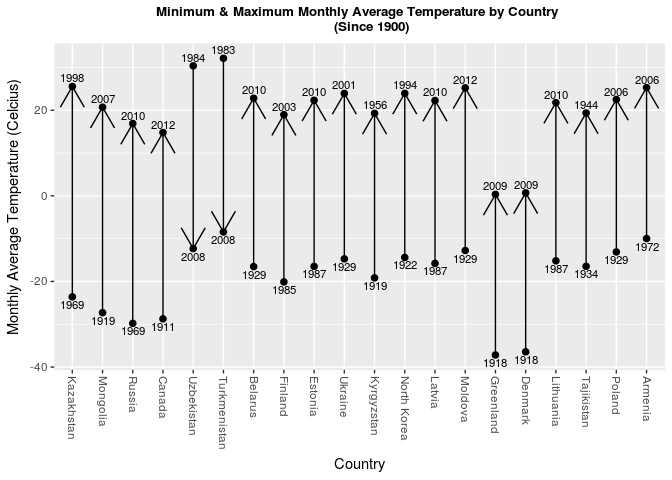
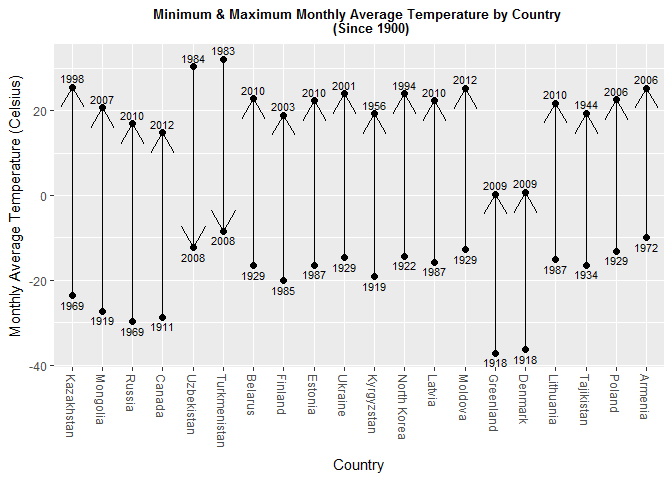
committing rmd, md and pngs with celsius

diff --git a/paper/CaseStudy2.md b/paper/CaseStudy2.md
@@ -5,7 +5,7 @@ April 13, 2017
 
 ### Introduction
 
-In this study....
+In this study, using Orange tree data from R, we will investigate orange tree growth and the relationship between tree age and circumference by tree size. We will examine land temperature differences from data that contains the monthly average temperatures since 1900 by country and by city. For the top 20 countries and cities, ranked by temperature difference, we will then examine the relationship between their minimum and maximum monthly average temperatures. Finally, we will examine land temperatures by month in the United States and look for trends in the data, and will look for temperature differences by year.
 
 #### Code used to download and tidy data
 
@@ -17,6 +17,8 @@ source(paste(dir,"/source/download_2.R",sep=""))
 source(paste(dir,"/source/cleanup_2.R",sep=""))
 source(paste(dir,"/source/CityTemp_cleanup.R",sep=""))
 ```
+
+### Question 2 Insert Here
 
 ### 3i. Find the difference between the maximum and the minimum monthly average temperatures for each country and report/visualize top 20 countries with the maximum differences for the period since 1900.
 
@@ -125,7 +127,7 @@ T20MinMaxTempLong <- transform(T20MinMaxTempLong, Country=reorder(Country, -Temp
 ggplot(T20MinMaxTempLong, aes(x=Country, y=Monthly.AvgTemp, 
     group=Country, factor(TempDiff))) + 
   geom_point(size=2)+geom_path(arrow=arrow()) +
-  labs(y = 'Monthly Average Temperature (Celcius)',
+  labs(y = 'Monthly Average Temperature (Celsius)',
       title = 'Minimum & Maximum Monthly Average Temperature by Country 
       (Since 1900)') +
   theme(axis.text.x = element_text(angle = -90, hjust = 0, vjust = 0.5),
@@ -143,7 +145,7 @@ ggplot(T20MinMaxTempLong, aes(x=Country, y=Monthly.AvgTemp,
 ``` r
 ggplot(T20MinMaxTempLong, aes(x=Date, y=Monthly.AvgTemp, color=Min.Max)) + 
   geom_point(size=2) +
-  labs(x = 'Year', y = 'Monthly Avgerage Temperature (Celcius)', 
+  labs(x = 'Year', y = 'Monthly Avgerage Temperature (Celsius)', 
       title = 'Minimum & Maximum Monthly Average Temperature vs. Year (Since 1900)',
       color = "") +
   theme(plot.title = element_text(size=12, face='bold', hjust=0.5))
@@ -151,7 +153,7 @@ ggplot(T20MinMaxTempLong, aes(x=Date, y=Monthly.AvgTemp, color=Min.Max)) +
 
 ![](CaseStudy2_files/figure-markdown_github/T20scatterplot-1.png)
 
-### Q3ii.a. Select a subset of data called “UStemp” where US land temperatures from 01/01/1990 in Temp data. Use UStemp dataset to answer the followings. Create a new column to display the monthly average land temperatures in Fahrenheit (°F).
+### Q3ii.a. Select a subset of data called "UStemp" where US land temperatures from 01/01/1990 in Temp data. Use UStemp dataset to answer the followings. Create a new column to display the monthly average land temperatures in Fahrenheit (°F).
 
 #### Using the data from 1900 to 2013 for average land temperatures only in the United States, we can convert the temperatures from degrees C to degrees F using the formula Temp (deg F) = Temp (deg C)\* 1.8 +32.
 
@@ -165,20 +167,20 @@ UStemp$Monthly.AverageTemp.degF<-(UStemp$Monthly.AverageTemp.degC*1.8)+32
 head(UStemp)
 ```
 
-    ##        Monthly.AverageTemp.degC Monthly.AverageTemp.Uncertainty
-    ## 110179                   -1.702                           0.206
-    ## 113579                    8.534                           0.103
-    ## 116877                    9.848                           0.201
-    ## 117023                   -2.286                           0.154
-    ## 117867                   21.690                           0.110
-    ## 118212                    2.504                           0.186
-    ##              Country       Date Monthly.AverageTemp.degF
-    ## 110179 United States 1934-12-01                  28.9364
-    ## 113579 United States 2009-10-01                  47.3612
-    ## 116877 United States 1933-10-01                  49.7264
-    ## 117023 United States 1972-02-01                  27.8852
-    ## 117867 United States 2008-07-01                  71.0420
-    ## 118212 United States 1986-11-01                  36.5072
+    ##      Monthly.AverageTemp.degC Monthly.AverageTemp.Uncertainty
+    ## 186                    -3.583                           0.213
+    ## 1064                   13.906                           0.159
+    ## 1297                   20.935                           0.424
+    ## 1428                   -0.453                           0.201
+    ## 1573                    2.073                           0.124
+    ## 1802                   -1.586                           0.122
+    ##            Country       Date Monthly.AverageTemp.degF
+    ## 186  United States 1974-01-01                  25.5506
+    ## 1064 United States 1997-05-01                  57.0308
+    ## 1297 United States 1967-07-01                  69.6830
+    ## 1428 United States 1982-12-01                  31.1846
+    ## 1573 United States 1980-03-01                  35.7314
+    ## 1802 United States 2008-02-01                  29.1452
 
 ### Q3ii.b. Calculate average land temperature by year and plot it. The original file has the average land temperature by month.
 
@@ -189,7 +191,14 @@ head(UStemp)
 
 UStemp$Year<-as.POSIXlt(UStemp$Date)$year+1900
 UStempYear<-ddply(UStemp,~Year,summarise,Temp.mean.degF=mean(Monthly.AverageTemp.degF))
-ggplot(UStempYear, aes(x = Year, y=Temp.mean.degF))+geom_point()+geom_smooth()+labs(y="Average Land Temp (deg F)")+labs(title = "Average Land Temperature by Year in United States")+geom_line()+scale_x_continuous(breaks=seq(1900,2015,5))+theme(axis.text.x = element_text(size=10, angle=90))+scale_y_continuous(breaks=seq(40,56,1))
+ggplot(UStempYear, aes(x = Year, y=Temp.mean.degF))+
+  geom_point()+
+  geom_smooth()+
+  labs(y="Average Land Temp (deg F)")+
+  labs(title = "Average Land Temperature by Year in United States")+
+  geom_line()+scale_x_continuous(breaks=seq(1900,2015,5))+
+  theme(axis.text.x = element_text(size=10, angle=90))+
+  scale_y_continuous(breaks=seq(40,56,1))
 ```
 
     ## `geom_smooth()` using method = 'loess'
@@ -213,7 +222,7 @@ UStempYear_sorta[which(UStempYear_sorta$UStempYear.delta == max(UStempYear_sorta
     ##    Year Temp.mean.degF UStempYear.delta.degF    Year_lab
     ## 22 1921        49.2722                2.5401 1920 - 1921
 
-### 3iii. Download “CityTemp” data set at box.com. Find the difference between the maximum and the minimum temperatures for each major city and report/visualize top 20 cities with maximum differences for the period since 1900.
+### 3iii. Download CityTemp data set at box.com. Find the difference between the maximum and the minimum temperatures for each major city and report/visualize top 20 cities with maximum differences for the period since 1900.
 
 #### The following code chunk takes the CityTemp\_clean data frame and returns T20MinMaxCityTemp, the top 20 cities with the greatest temperature difference between their minimum and maximum Monthly.AvgTemp observations since 1/1/1900.
 
@@ -324,13 +333,13 @@ T20MinMaxCityTempLong <- T20MinMaxCityTempLong[order(-T20MinMaxCityTempLong$Temp
 T20MinMaxCityTempLong <- transform(T20MinMaxCityTempLong, City=reorder(City, -TempDiff) )
 ```
 
-#### The following code chunk plots the T20MinMaxCityTemp data frame with City in the x axis ranked by TempDiff and Monthly.AvgTemp in the y axis. The Min and Max values are plotting with labels indicating the year the observation occurred. An arrow then indicates which observation occurred first (Min prior to Max = Up; Max prior to Min = Down)
+#### The following code chunk plots the T20MinMaxCityTemp data frame with City in the x axis ranked by TempDiff and Monthly.AvgTemp in the y axis. The Min and Max values are plotting with labels indicating the year the observation occurred. An arrow then indicates which observation occurred first (Min prior to Max = Up; Max prior to Min = Down).
 
 ``` r
 ggplot(T20MinMaxCityTempLong, aes(x=City, y=Monthly.AvgTemp, 
                                group=City, factor(TempDiff))) + 
   geom_point(size=2)+geom_path(arrow=arrow()) +
-  labs(y = 'Monthly Average Temperature (Celcius)',
+  labs(y = 'Monthly Average Temperature (Celsius)',
        title = 'Minimum & Maximum Monthly Average Temperature by City (Since 1900)') +
   theme(axis.text.x = element_text(angle = -90, hjust = 0, vjust = 0.5),
         plot.title = element_text(size=10, face='bold', hjust=0.5)) + 
@@ -342,12 +351,12 @@ ggplot(T20MinMaxCityTempLong, aes(x=City, y=Monthly.AvgTemp,
 
 ![](CaseStudy2_files/figure-markdown_github/T20Cityplot-1.png)
 
-#### The following code chunk plots the T20MinMaxCityTemp data frame with Year in the x axis and Monthly.AvgTemp in the y axis. The Min and Max Monthly.AvgTemp values are plotted by color.
+#### The following code chunk plots the T20MinMaxCityTemp data frame with Year in the x axis and Monthly.AvgTemp in the y axis. The Min and Max Monthly Average Temperature (Monthly.AvgTemp) values are plotted by color.
 
 ``` r
 ggplot(T20MinMaxCityTempLong, aes(x=Date, y=Monthly.AvgTemp, color=Min.Max)) + 
   geom_point(size=2) +
-  labs(x = 'Year', y = 'Monthly Avgerage Temperature (Celcius)', 
+  labs(x = 'Year', y = 'Monthly Avgerage Temperature (Celsius)', 
        title = 'Minimum & Maximum Monthly Average Temperature vs. Year (Since 1900)',
        color = "") +
   theme(plot.title = element_text(size=12, face='bold', hjust=0.5))
@@ -357,4 +366,9 @@ ggplot(T20MinMaxCityTempLong, aes(x=Date, y=Monthly.AvgTemp, color=Min.Max)) +
 
 ### 3iv. Compare the two graphs in (i) and (iii) and comment it.
 
-#### The initial plots with arrows indicating if the minimum or maximum Monthly.AvgTemp occurred first shows commonalities between the top 20 countries and 20 cities with the highest TempDiff since 1/1/1900. 18 out of 20 countries and 15 out of 20 cities have their maximum Monthly.AvgTemp occurring later than the minimum Monthly.AvgTemp. The scatter plot showing minimum and maximum Monthly.AvgTemp by year is even more telling. There is appears to be a grouping for maximum values between 1980-present (18 out of 20 countries, 16 out of 20 cities). Without the use of advanced statistics and only using the visual graphics, it appears Monthly.AvgTemp for the top 20 countries and cities with the highest TempDiff since 1/1/1900 has been rising in the last 40 years.
+#### The initial plots have arrows indicating a minimum or maximum Monthly Average Temperature (Monthly.AvgTemp). The arrows in the plot show commonalities between the top 20 countries and top 20 cities with the highest TempDiff since 1/1/1900. Eighteen out of 20 countries and 15 out of 20 cities have their maximum Monthly Average Temperature (Monthly.AvgTemp) occurring later than the minimum Monthly Average Temperature (Monthly.AvgTemp). The scatter plot showing minimum and maximum Monthly Average Temperature (Monthly.AvgTemp) by year is even more telling. There appears to be a grouping for maximum values between 1980-present (18 out of 20 countries, 16 out of 20 cities). Without the use of advanced statistics and only using visual inspection, it appears that the Monthly Average Temperature (Monthly.AvgTemp) of the top 20 countries and cities with the highest TempDiff since 1/1/1900 has been rising in the last 40 years.
+
+Conclusion
+----------
+
+In this study, we find visual evidence that further investigation is warranted to determine if monthly average temperatures have been rising since January 1900. This assertion is based on data from the top 20 countries and cities with the greatest temperature differences. Additionally, we we find that in the United States, the maximum absolute temperature difference by year is 2.5401 degrees F (1920-1921), and that there is a general trend up in average land temperature.
